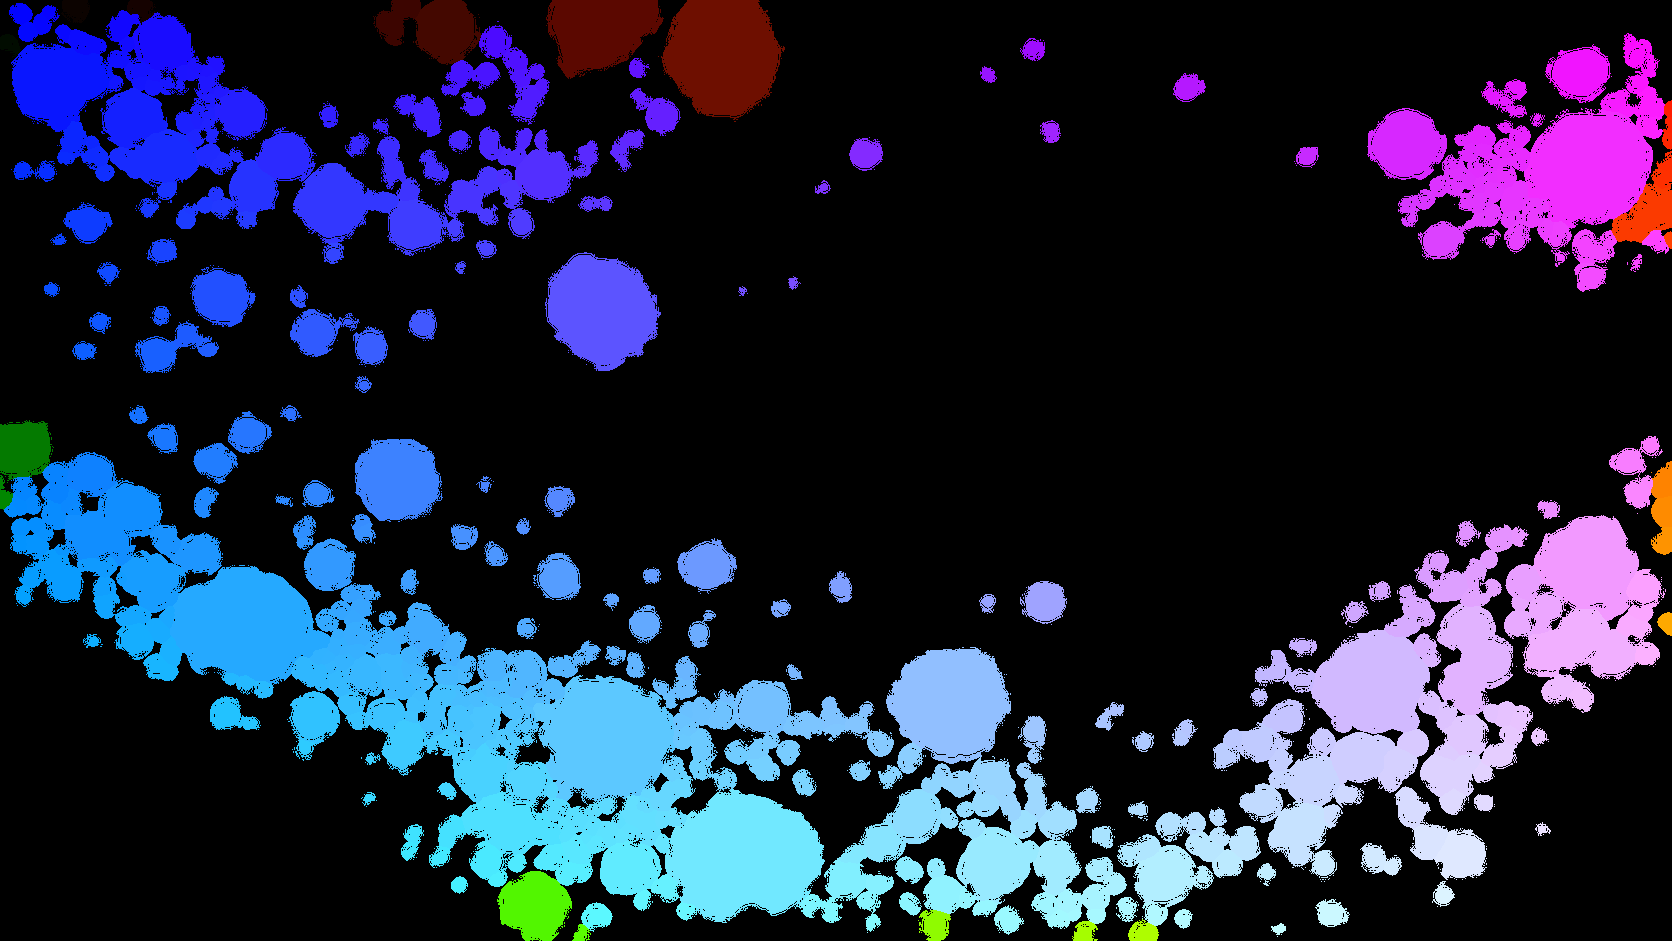
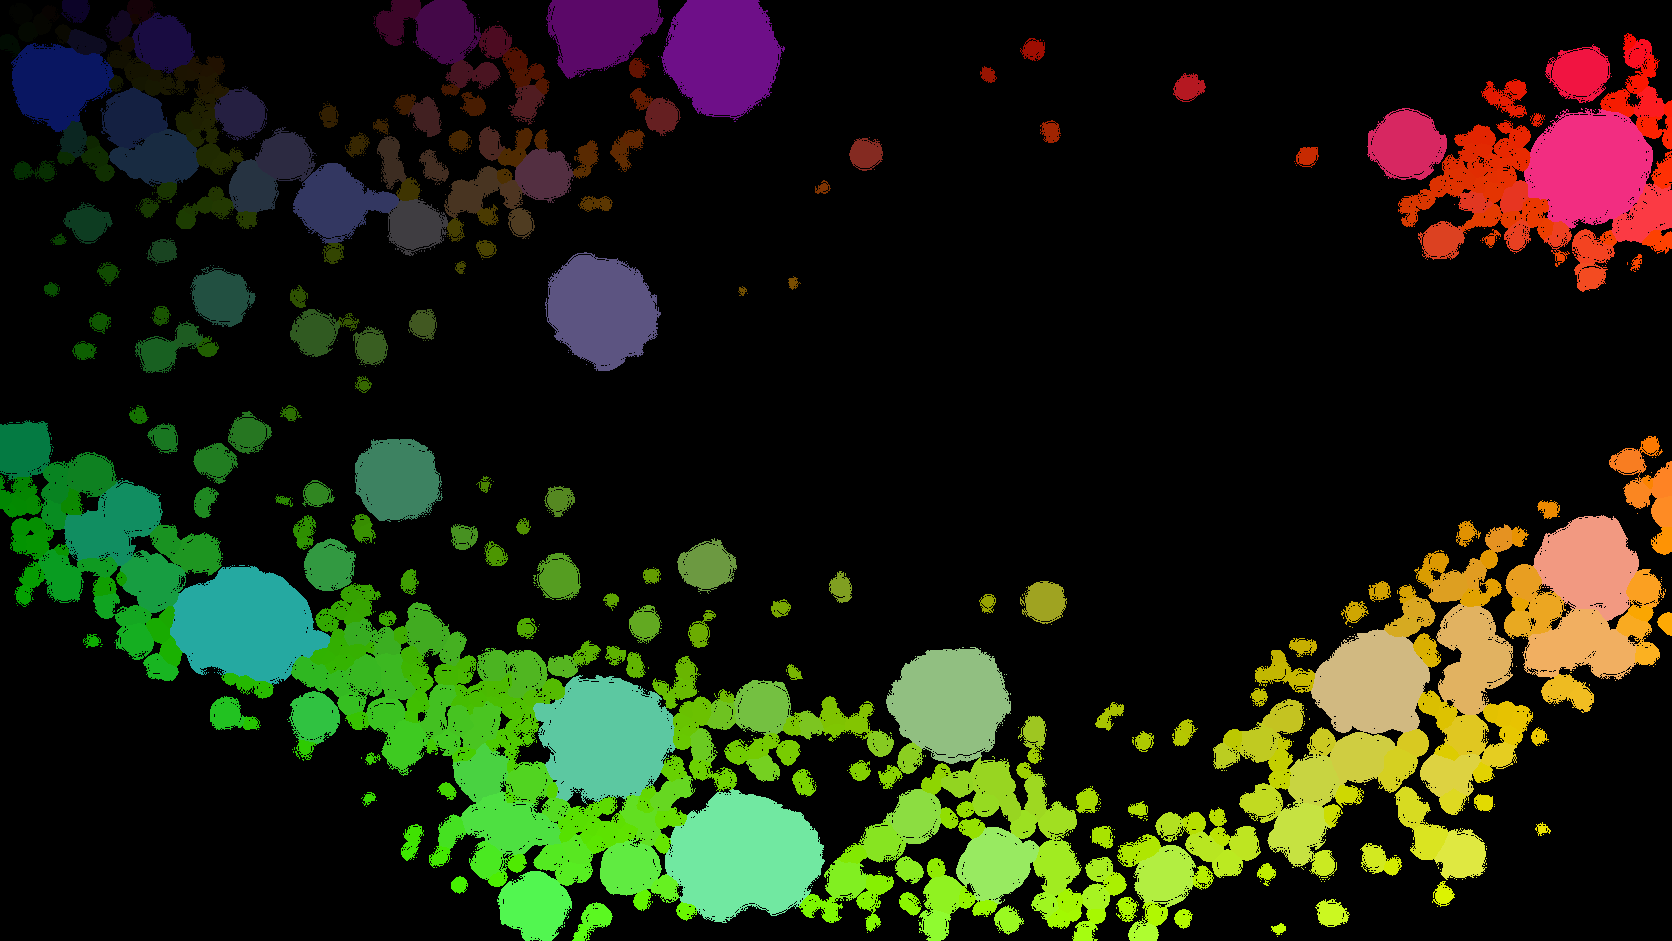
Hero: rocks as rigid bodies with mass; cascading grid blackouts; cool grade
- Rocks: each moves rigidly by the gravity field at its centre scaled by its
  mass (small rocks fly further, big ones barely budge), with a little spin;
  several candidate lookups per pixel so moving rocks are never cropped
- Front rocks cut by the frame only move outward past the edges they are cut
  by (float included), so the cut never shows
- Planted storms black out the power grid district by district: irregular
  districts flicker, drop and stutter back on, cascading outward and fully
  restored within a few seconds
- City lights mostly cool white with the occasional faint warm town; overall
  slight cool grade; muted colours throughout

Claude-Session: https://claude.ai/code/session_01PyStW91jnVgwv4jCJzLbg2

diff --git a/src/components/home/HeroScene.tsx b/src/components/home/HeroScene.tsx
@@ -359,7 +359,8 @@ vec3 planetWithLimb(vec2 uv) {
         }
       }
       net *= smoothstep(0.35, 0.6, fbm(sc * 9.0 + 3.0) + 0.2 * coast) * max(land, 0.7 * coast);
-      vec3 sodium = vec3(1.0, 0.88, 0.74);   // muted: only a hint of warmth
+      // Mostly cool white; only the occasional town glows faintly warm.
+      vec3 sodium = mix(vec3(0.9, 0.94, 1.0), vec3(1.0, 0.9, 0.78), step(0.85, hash(ci + 13.0)));
       vec3 lights = sodium * (pts * metro * 2.2 + sprawl * 0.22 + net * 0.5);
       // Futuristic megacities (rare): ring cities with spokes, and honeycomb grids,
       // in a cooler white.
@@ -383,6 +384,29 @@ vec3 planetWithLimb(vec2 uv) {
           lights += cool * grid * 0.55 * fade;
         }
       }
+      // Planted storms knock out the power grid, district by district: districts
+      // (irregular cells) near the storm fail first and the failure cascades
+      // outward patchily; each flickers before it drops and stutters back on a
+      // second or two later, so the grid is restored within a few seconds.
+      float outage = 0.0;
+      vec2 warpD = sc * 15.0 + 0.9 * vec2(fbm(sc * 6.0), fbm(sc * 6.0 + 7.0));
+      vec2 dist = floor(warpD);
+      for (int k = 0; k < 3; k++) {
+        float sa = uStorm[k].z;
+        if (sa < 0.0 || sa > 8.0) continue;
+        float dd = length(sph - uStorm[k].xy);
+        float hD = hash(dist + uStorm[k].w * 31.0);
+        if (dd > 0.24 || hD > 1.15 * (1.0 - dd / 0.24)) continue;
+        float tFail = dd * 5.0 + hD * 0.7;
+        float tBack = tFail + 1.0 + 1.4 * hash(dist + 3.0 + uStorm[k].w);
+        float flick = step(0.5, hash(dist + floor(uT * 14.0)));
+        float o = 0.0;
+        if (sa > tFail - 0.3 && sa < tFail) o = flick;            // flicker, then drop
+        else if (sa >= tFail && sa < tBack) o = 1.0;               // dark
+        else if (sa >= tBack && sa < tBack + 0.35) o = flick;      // stutter back on
+        outage = max(outage, o);
+      }
+      lights *= 1.0 - 0.92 * outage;
       col += lights * nightSide * (1.0 - 0.85 * dens) * inside * 1.3;
     }
 
@@ -518,24 +542,54 @@ float rockId(sampler2D ids, vec2 uv) {
   vec4 t = texture2D(ids, uv);
   return floor(t.r * 255.0 + 0.5) + floor(t.g * 255.0 + 0.5) * 256.0;
 }
-// Gravity push: every movable rock moves rigidly by the displacement field at
-// its centre, plus a slow individual float. A pixel finds its rock by stepping
-// back along the field, then checks the rock really covers it.
+// Gravity push. Every movable rock is a rigid body: it moves by the gravity
+// field at its centre scaled by its mass (small rocks fly further, big ones
+// barely budge), turns a little, and floats gently. Rocks cut by the frame only
+// ever move outward past the edges they are cut by, so the cut never shows.
+// A pixel finds which rock lands on it by trying a few candidates.
 vec2 fieldAt(sampler2D field, vec2 uv) {
   return (texture2D(field, clamp(uv, 0.0, 1.0)).rg - 0.5) * 256.0 / ROCK_SZ;
+}
+float bit(float flags, float b) { return mod(floor(flags / pow(2.0, b)), 2.0); }
+// Displacement (uv) and turn for a rock, from its centre/flags texel.
+vec3 rockMotion(sampler2D field, vec4 cen, float id, float bobAmp) {
+  float flags = floor(cen.b * 255.0 + 0.5);
+  float size = floor(flags / 32.0);
+  float h = hash(vec2(id, 7.0));
+  float massK = (1.25 - 0.13 * size) * (0.75 + 0.5 * h);
+  vec2 d = fieldAt(field, cen.rg) * max(0.1, massK);
+  d += vec2(sin(uT * 0.33 + h * 6.28), cos(uT * 0.27 + h * 9.1)) * bobAmp / ROCK_SZ;
+  if (bit(flags, 1.0) > 0.5) d.x = min(d.x, 0.0);
+  if (bit(flags, 2.0) > 0.5) d.x = max(d.x, 0.0);
+  if (bit(flags, 3.0) > 0.5) d.y = min(d.y, 0.0);
+  if (bit(flags, 4.0) > 0.5) d.y = max(d.y, 0.0);
+  float edge = bit(flags, 1.0) + bit(flags, 2.0) + bit(flags, 3.0) + bit(flags, 4.0);
+  float turn = edge > 0.5 ? 0.0 : (d.x * 1672.0 * 0.004 - d.y * 941.0 * 0.003) * (h - 0.5) * (1.6 - 0.15 * size);
+  return vec3(d, turn);
 }
 vec2 rigidMove(sampler2D ids, sampler2D cent, sampler2D field, vec2 uv, float bobAmp, out float keep) {
   keep = 1.0;
   float idP = rockId(ids, uv);
   vec4 cP = texture2D(cent, clamp(uv, 0.0, 1.0));
-  if (idP > 0.5 && cP.b < 0.5) return uv;                 // a rock that stays put
-  vec2 q = uv - fieldAt(field, uv);
-  float idQ = rockId(ids, q);
-  vec4 cQ = texture2D(cent, clamp(q, 0.0, 1.0));
-  if (idQ > 0.5 && cQ.b > 0.5) {
-    float h = hash(vec2(idQ, 7.0));
-    vec2 bob = vec2(sin(uT * 0.33 + h * 6.28), cos(uT * 0.27 + h * 9.1)) * bobAmp / ROCK_SZ;
-    vec2 s2 = uv - fieldAt(field, cQ.rg) - bob;
+  float movP = bit(floor(cP.b * 255.0 + 0.5), 0.0);
+  if (idP > 0.5 && movP < 0.5) return uv;                  // a rock that stays put
+  vec2 dP = fieldAt(field, uv);
+  // Candidates: step back along the field by a few amounts and around it.
+  for (int k = 0; k < 7; k++) {
+    float fk = float(k);
+    vec2 off = k < 4 ? dP * (fk == 0.0 ? 1.0 : fk == 1.0 ? 0.0 : fk == 2.0 ? 0.5 : 1.6)
+                     : dP + vec2(k == 4 ? 12.0 : k == 5 ? -12.0 : 0.0, k == 6 ? 12.0 : 0.0) / ROCK_SZ;
+    if (k > 1 && dot(dP, dP) * 1672.0 * 1672.0 < 0.25) break;   // no push here: the plain cases suffice
+    vec2 q = uv - off;
+    float idQ = rockId(ids, q);
+    if (idQ < 0.5) continue;
+    vec4 cQ = texture2D(cent, clamp(q, 0.0, 1.0));
+    if (bit(floor(cQ.b * 255.0 + 0.5), 0.0) < 0.5) continue;
+    vec3 m = rockMotion(field, cQ, idQ, bobAmp);
+    vec2 c = cQ.rg;
+    vec2 rel = (uv - c - m.xy) * ROCK_SZ;
+    float cs = cos(-m.z), sn = sin(-m.z);
+    vec2 s2 = c + vec2(cs * rel.x - sn * rel.y, sn * rel.x + cs * rel.y) / ROCK_SZ;
     if (abs(rockId(ids, s2) - idQ) < 0.5) return s2;
   }
   if (idP > 0.5) keep = 0.0;                               // this rock has moved away
@@ -694,11 +748,14 @@ void main() {
     // Fine grain baked into the image: a little heavier on the bright strands.
     float lum = dot(col, vec3(0.3333));
     col += (hash(sp + fract(uT)) - 0.5) * ((3.0 + 9.0 * smoothstep(0.05, 0.6, lum)) / 255.0);
+    // Overall grade: a slight cool tint.
+    col *= vec3(0.95, 0.985, 1.04);
     gl_FragColor = vec4(col, 1.0);
   } else {
     // Keep the menu strip clear at rest; once scrolling, rocks pass over it faintly.
     float band = 1.0 - smoothstep(uMenuH - 6.0, uMenuH + 36.0, sp.y);
     float keep = 1.0 - band * (1.0 - 0.4 * min(1.0, uP * 14.0));
+    col *= vec3(0.95, 0.985, 1.04);
     gl_FragColor = vec4(col, cg.a) * keep;
   }
 }

diff --git a/scripts/build-rock-ids.py b/scripts/build-rock-ids.py
@@ -48,15 +48,19 @@ for key, name in LAYERS.items():
     edge = [int(sl[0].start == 0 or sl[1].start == 0 or sl[0].stop == H or sl[1].stop == W) for sl in objs]
     rocks = [[round(x, 1), round(y, 1), round(float(np.sqrt(s / np.pi)), 1), e] for x, y, s, e in zip(cx, cy, area, edge)]
     # Centre map: each pixel of a rock holds its rock's centre (R = x/W, G = y/H,
-    # 8-bit) and whether it may move (B = 255), so the shader can move every rock
-    # rigidly by the gravity field sampled at its centre.
-    cent = np.zeros((H, W, 3), dtype=np.uint8)
+    # 8-bit) and B = flags: bit 0 may move; bits 1-4 touches left/right/top/bottom
+    # border; bits 5-7 size class (0-7, for mass).
     lut = np.zeros((n + 1, 3), dtype=np.uint8)
-    for i, (x, y, e) in enumerate(zip(cx, cy, edge), start=1):
-        # Front rocks may all move: a gravity push sends them outward, which keeps
-        # their cut sides beyond the frame. Middle-layer rocks cut by the border stay.
-        movable = key == "near" or not e
-        lut[i] = [round(x / (W - 1) * 255), round(y / (H - 1) * 255), 255 if movable else 0]
+    for i, (x, y, sl, s) in enumerate(zip(cx, cy, objs, area), start=1):
+        left, right = sl[1].start == 0, sl[1].stop == W
+        top, bottom = sl[0].start == 0, sl[0].stop == H
+        touches = left or right or top or bottom
+        # Front rocks may move (only outward past the edges they are cut by, so the
+        # cut never shows); middle-layer rocks cut by the border stay put.
+        movable = key == "near" or not touches
+        size = min(7, int(np.sqrt(s / np.pi) / 12))
+        flags = int(movable) | (int(left) << 1) | (int(right) << 2) | (int(top) << 3) | (int(bottom) << 4) | (size << 5)
+        lut[i] = [round(x / (W - 1) * 255), round(y / (H - 1) * 255), flags]
     cent = lut[lab]
     Image.fromarray(cent, "RGB").save(f"public/brand/{name}-centres.png", optimize=True)
     out[key] = {"w": int(a.shape[1]), "h": int(a.shape[0]), "rocks": rocks}
